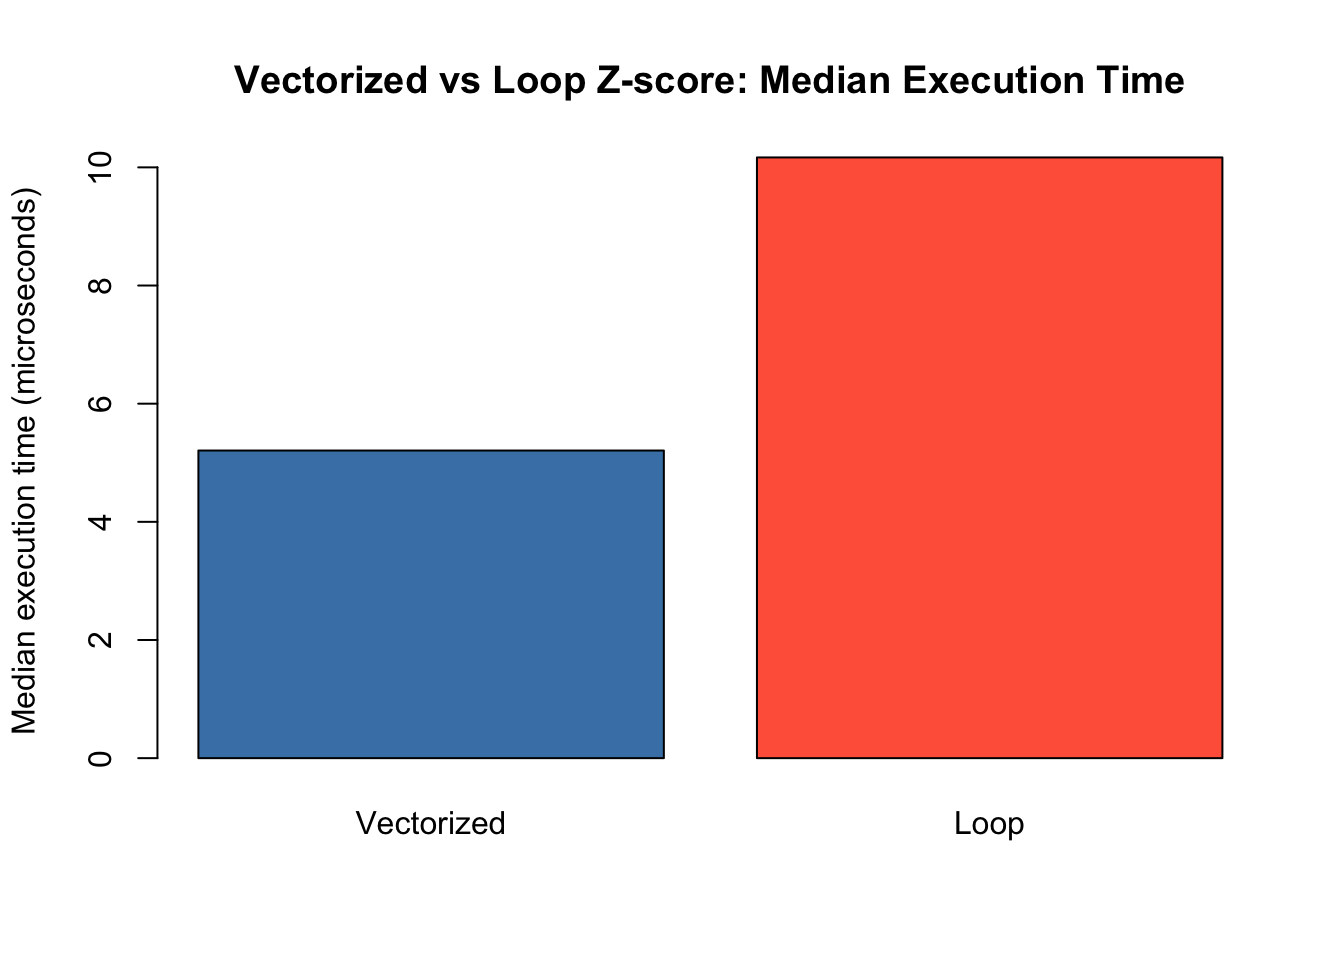
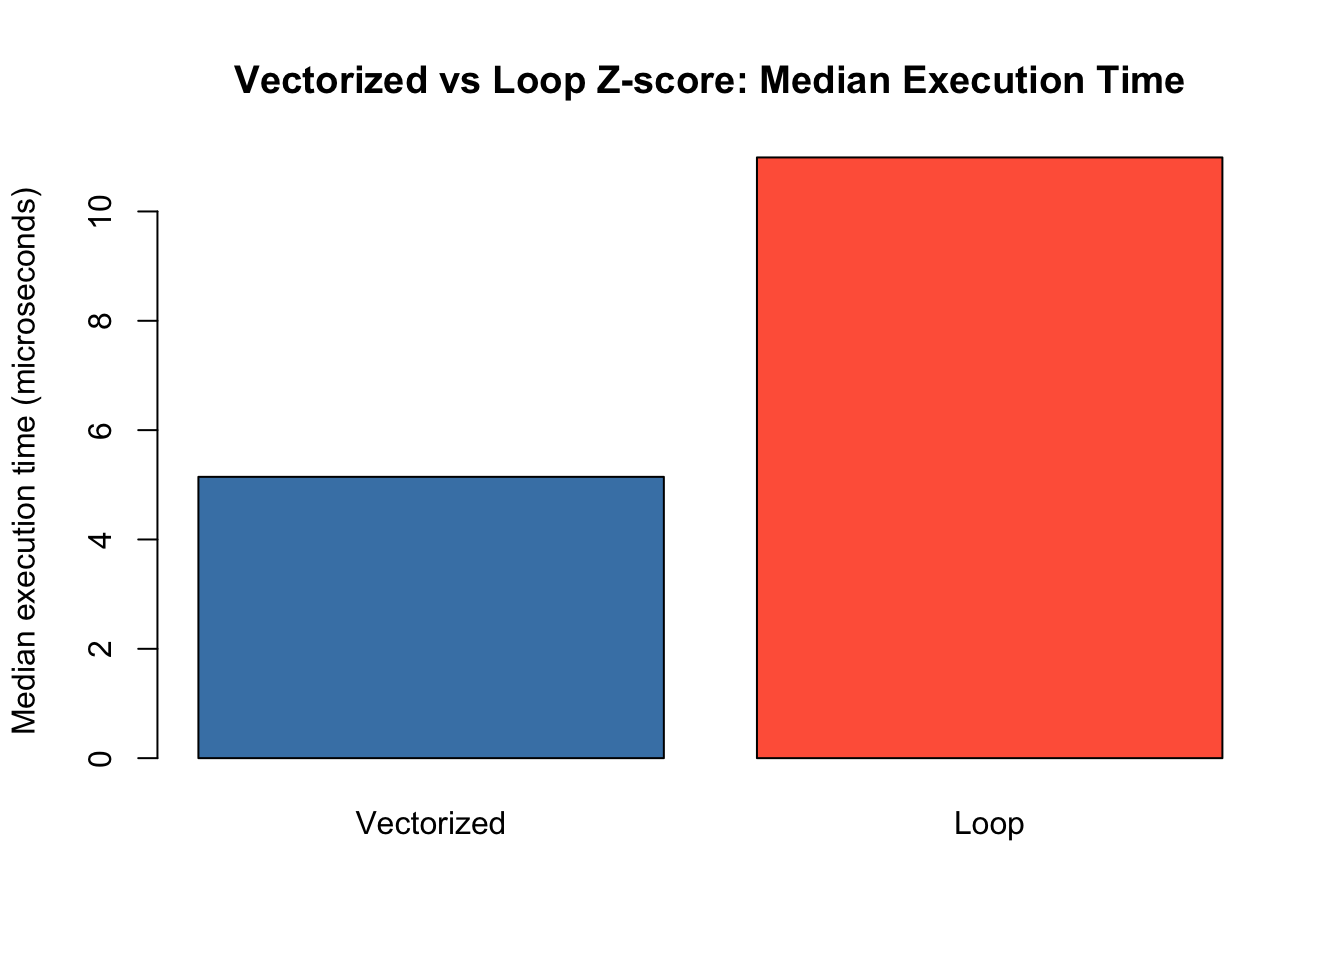
update fixes

diff --git a/hw1_A69034781.html b/hw1_A69034781.html
@@ -342,7 +342,7 @@ Gentoo    4679.741 5484.836</code></pre>
 <span id="cb28-7"><a href="#cb28-7" aria-hidden="true" tabindex="-1"></a>})</span></code></pre></div><button title="Copy to Clipboard" class="code-copy-button"><i class="bi"></i></button></div>
 <div class="cell-output cell-output-stdout">
 <pre><code>   user  system elapsed 
-  0.068   0.028   0.097 </code></pre>
+  0.068   0.033   0.109 </code></pre>
 </div>
 <div class="code-copy-outer-scaffold"><div class="sourceCode cell-code" id="cb30"><pre class="sourceCode r code-with-copy"><code class="sourceCode r"><span id="cb30-1"><a href="#cb30-1" aria-hidden="true" tabindex="-1"></a><span class="co"># Pre-allocated version</span></span>
 <span id="cb30-2"><a href="#cb30-2" aria-hidden="true" tabindex="-1"></a><span class="fu">system.time</span>({</span>
@@ -353,7 +353,7 @@ Gentoo    4679.741 5484.836</code></pre>
 <span id="cb30-7"><a href="#cb30-7" aria-hidden="true" tabindex="-1"></a>})</span></code></pre></div><button title="Copy to Clipboard" class="code-copy-button"><i class="bi"></i></button></div>
 <div class="cell-output cell-output-stdout">
 <pre><code>   user  system elapsed 
-  0.001   0.000   0.001 </code></pre>
+  0.000   0.000   0.001 </code></pre>
 </div>
 </div>
 <p>The growing version is slow because c(result, i^2) must copy the entire existing vector on every iteration, giving O(n^2) total work. Pre-allocating with numeric(10000) reserves all memory upfront so each assignment just writes to an existing slot, reducing the work to O(n). As the slides show, this difference becomes dramatic as n grows.</p>
